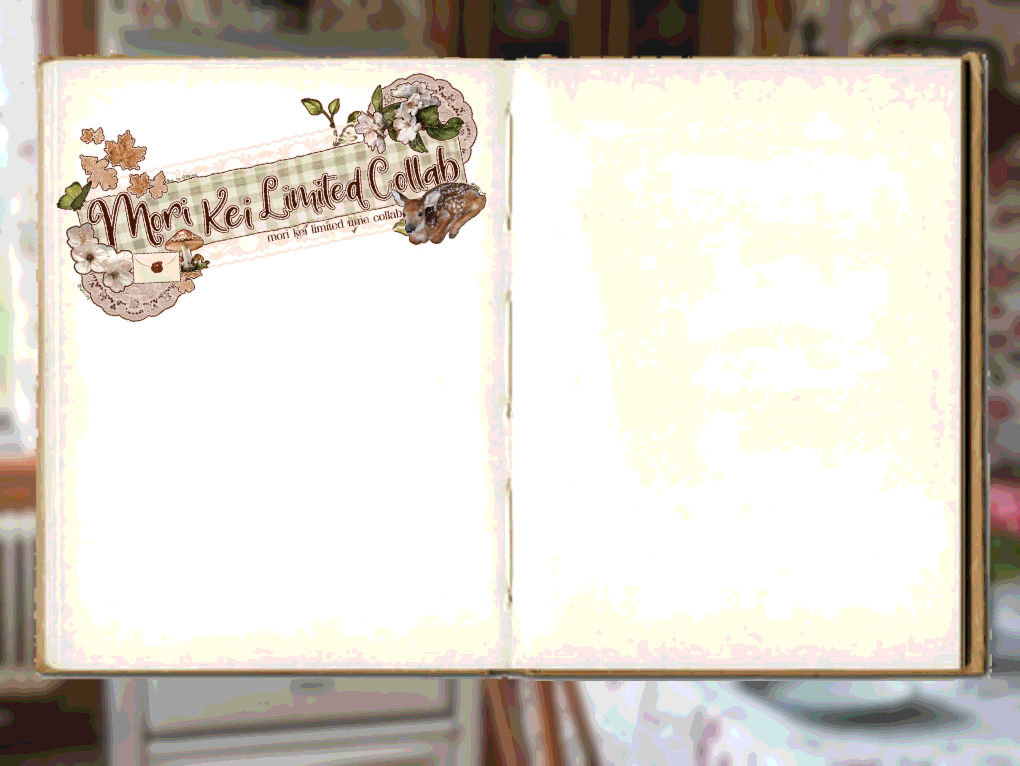
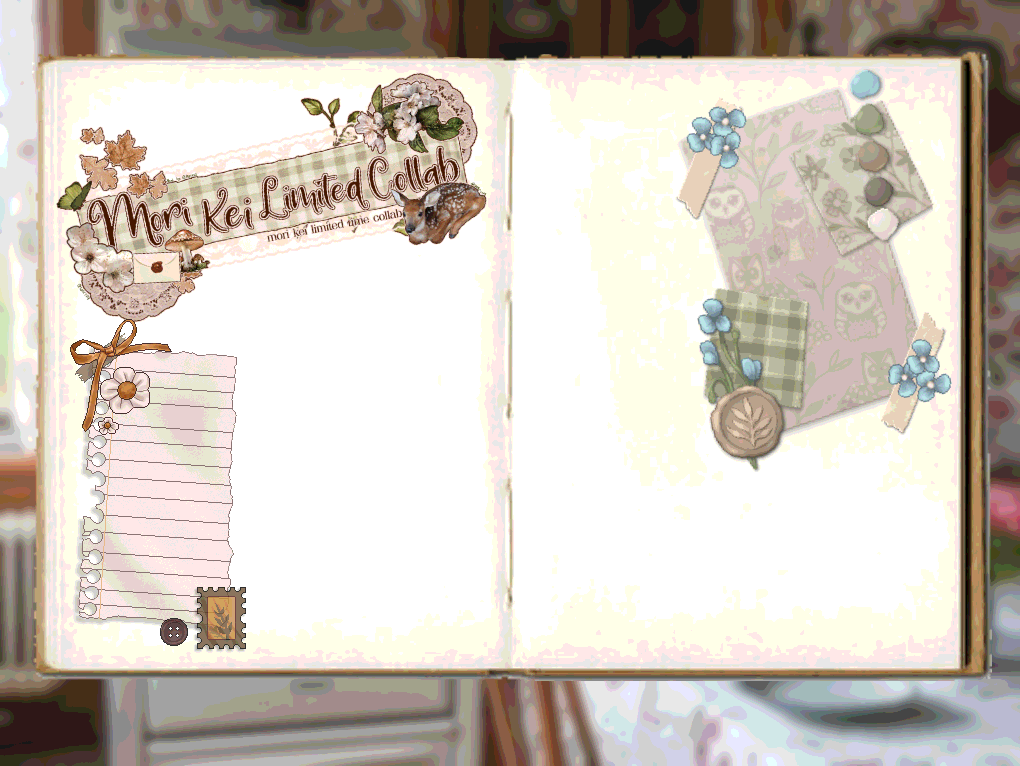
Add files via upload

Changed region(s): [[0.6686, 0.0901, 0.9422, 0.6305], [0.0608, 0.4204, 0.2431, 0.8708]]

diff --git a/events.js b/events.js
@@ -4,10 +4,10 @@ const sets = document.querySelectorAll('.set');
 
 sets.forEach(image => {
     image.addEventListener('mouseover', () => {
-        image.style.opacity = "80%";  
+        image.style.opacity = "70%";  
     });
     image.addEventListener('mouseout', () => {
-        image.style.opacity = "2%";  
+        image.style.opacity = "6%";  
     });
 });
 
@@ -19,3 +19,4 @@ cookie.addEventListener("click", function() {
     cookie.src = "assets/bearcookieATED.png"
 
 })
+

diff --git a/interior.html b/interior.html
@@ -20,6 +20,12 @@
             <img  class="arrow" src="assets/arrow.png" style="rotate: 180deg; bottom: 0%; left:3%">
         <a>
 
+            
+        
+        <img class="set" src="assets/set/38.png" style="bottom: -20%; left:64%; height:300px">
+        
+        <img class="set" src="assets/set/39.png" style="bottom: -15%; left:23%; height:300px">
+
     </div>
         
     <script src="events.js"></script>

diff --git a/house.html b/house.html
@@ -33,9 +33,10 @@
       <a>
               
         
-        <img class="set" src="assets/set/3.png" style="bottom: 20%; left:64%; height:200px">
+        <img class="set" src="assets/set/3.png" style="bottom: 17%; left:64%; height:200px">
         
 
+        <img class="set" src="assets/set/43.png" style="bottom: 30%; left:22%; height:140px">
     </div>
         
     <script src="events.js"></script>

diff --git a/deer.html b/deer.html
@@ -30,6 +30,8 @@
             <img class="set" src="assets/set/22.png" style="bottom: 0%; left:44%; height: 220px;">
             
             <img class="set" src="assets/set/6.png" style="bottom: 11%; left:80%; height: 170px;">
+            
+            <img class="set" src="assets/set/41.png" style="bottom: 33%; left:33%; height: 140px">
     </div>
         
     <script src="events.js"></script>

diff --git a/forest.html b/forest.html
@@ -21,6 +21,10 @@
             <img  class="arrow" src="assets/arrow.png" style="rotate: 270deg; bottom: 0%; left:3%">
         <a>
         
+            
+        <a href="https://youtu.be/5GsqeWeArJI?si=iZQuJbjMIiYv7u2W">
+            <img  class="arrow" id="bird" src="assets/BIRD.png" style="top: 3%; right:8%; width: 20px;">
+        <a>
 
         
         <a href="bridge.html">

diff --git a/kitchen.html b/kitchen.html
@@ -22,7 +22,7 @@
 
         
             <a href="book.html">
-                <img  class="arrow" src="assets/book.png" style="bottom: 0%; right:3%">
+                <img  class="arrow" src="assets/book.png" style="bottom: 3%; right:3%; width: 50px;">
             <a>
     
             

diff --git a/poop.html b/poop.html
@@ -28,6 +28,9 @@
         <img  class="arrow" src="assets/arrow.png" style="rotate: 90deg; bottom: 0%; right:3%">
     <a>
 
+        
+        <img class="set" src="assets/set/42.png" style="bottom:12%; left:15%">
+
     </div>
         
     <script src="events.js"></script>

diff --git a/walkway.html b/walkway.html
@@ -30,6 +30,8 @@
             
             
             <img class="set" src="assets/set/10.png" style="bottom: 20%; left:22%">
+            
+            <img class="set" src="assets/set/40.png" style="bottom: 3%; left:30%; height: 200px">
 
     </div>
         

diff --git a/pee.css b/pee.css
@@ -30,10 +30,10 @@ body  {background-color: rgb(0, 0, 0);
     width: 40px;
     position: absolute;
     z-index: 10;
+    height:auto
 }
 
 .set {
     opacity: 1%;
     position: absolute;
-    height: 160px
-}
+    height: 160px;}
